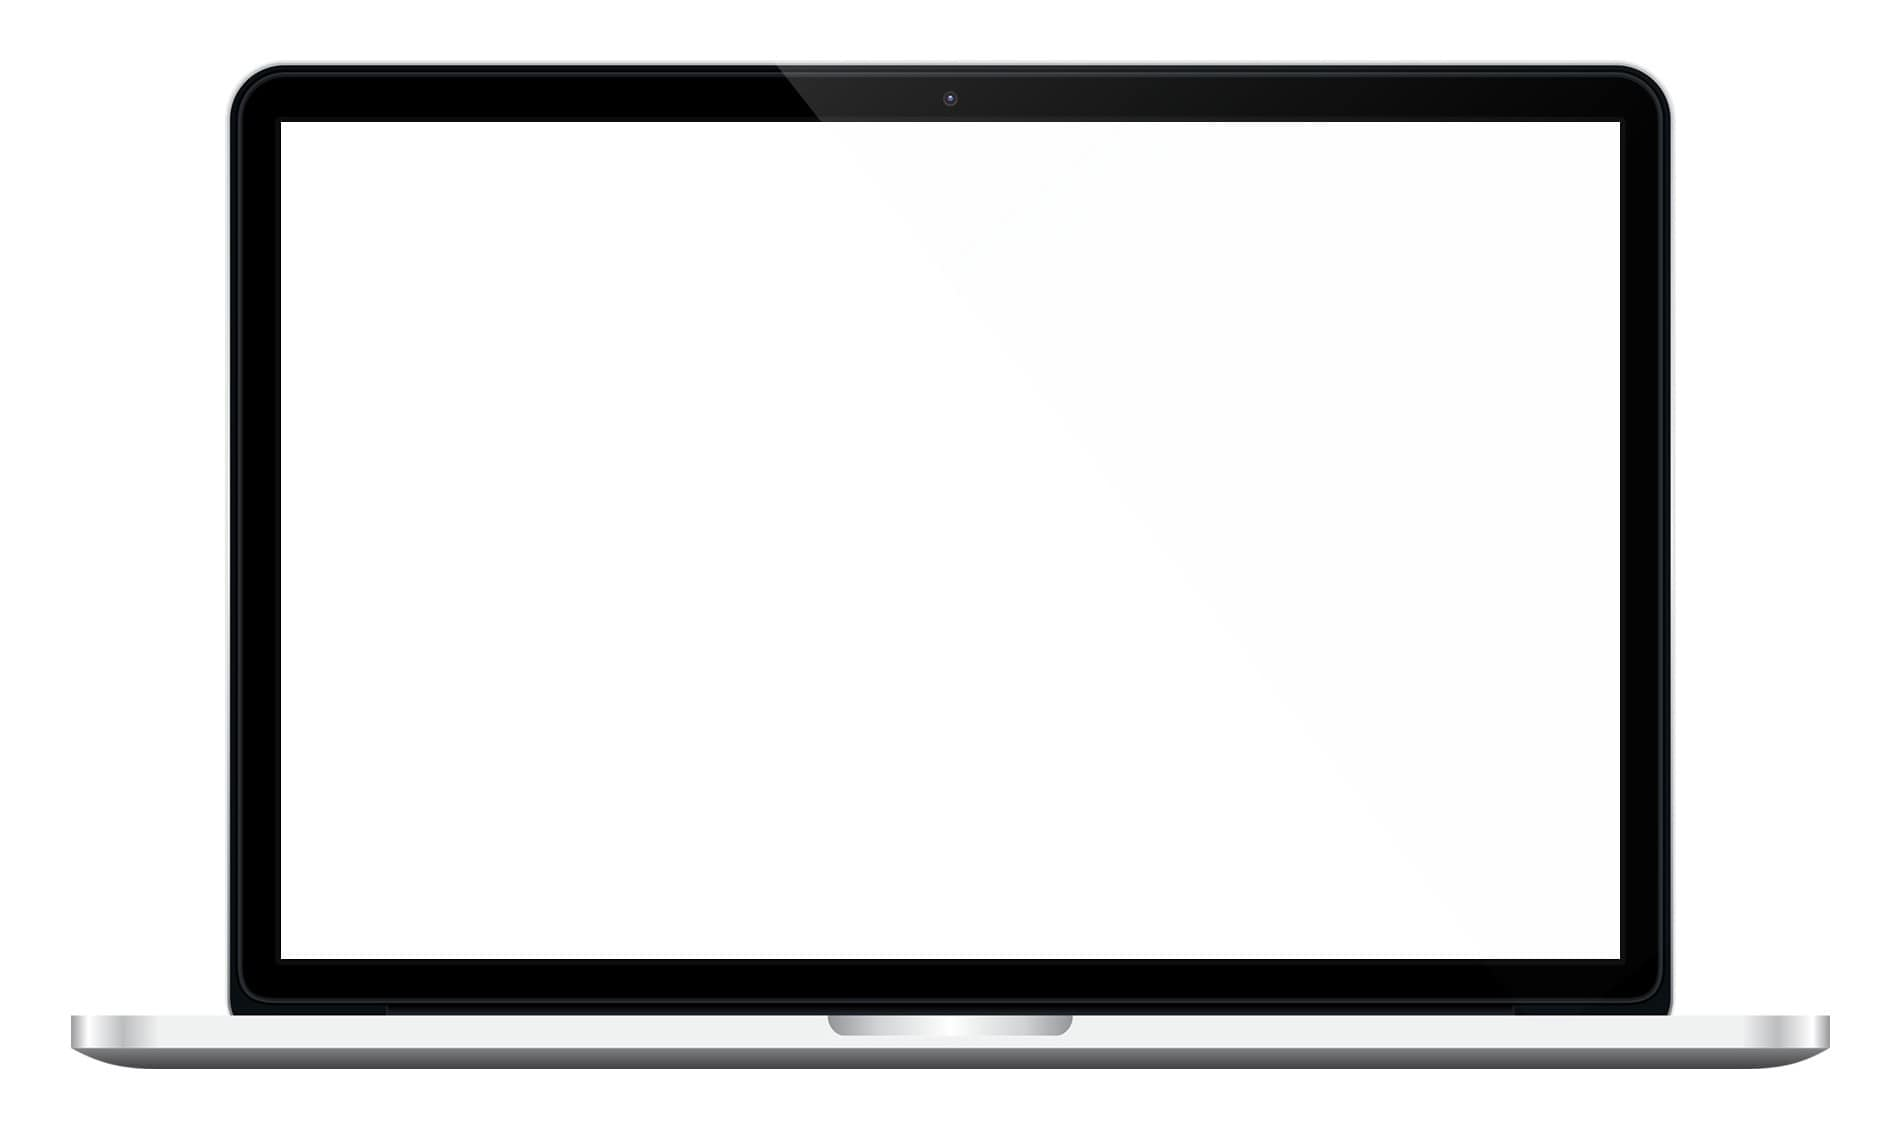
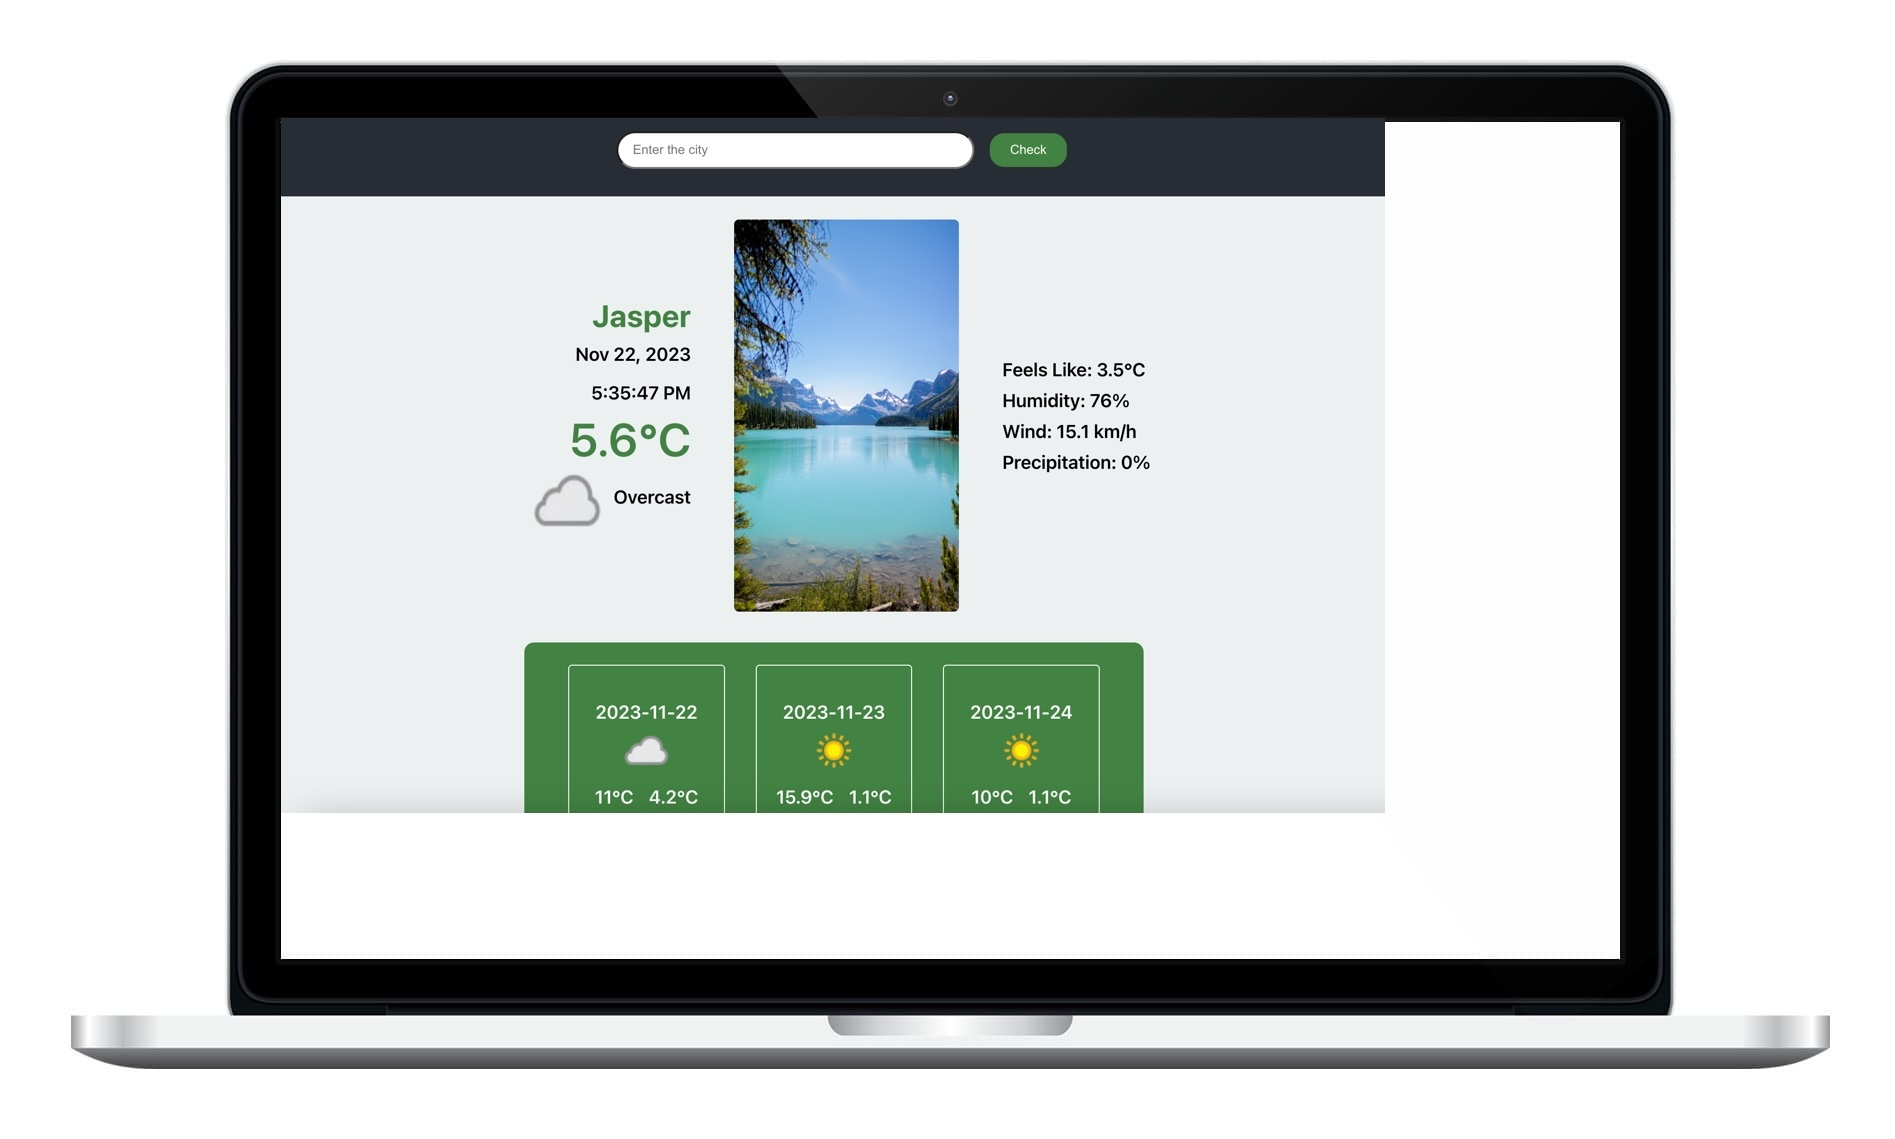
added new project - weather forecaster

Changed region(s): [[0.1245, 0.0922, 0.7472, 0.7375]]

diff --git a/src/components/ProjectDetails/WeatherForecaster/ProjectDetailsWeatherForecaster.jsx b/src/components/ProjectDetails/WeatherForecaster/ProjectDetailsWeatherForecaster.jsx
@@ -1,0 +1,58 @@
+import "./ProjectDetailsWeatherForecaster.scss";
+// import ProjectScreenTravelSite from "../../../assets/images/project-screen-travelsite.jpeg";
+import ProjectScreenWeatherForecaster from "../../../assets/images/project-screen-weather-forecaster.jpeg";
+
+function ProjectDetailsWeatherForecaster() {
+    return (
+        <>
+            <section class="project-details">
+                <div class="main-container">
+                    <div class="project-details__content">
+                        <div class="project-details__showcase-img-cont">
+                            <img
+                                src={ProjectScreenWeatherForecaster}
+                                alt="Project Screen"
+                                class="project-details__showcase-img"
+                            />
+                        </div>
+                        <div class="project-details__content-main">
+                            <div class="project-details__desc">
+                                <h3 class="project-details__content-title">Project Overview</h3>
+                                <p class="project-details__desc-para">
+                                This app offers a quick and accurate way to check global weather conditions, helping you stay prepared for unexpected changes. Imagine the convenience of making your mornings hassle-free by effortlessly checking the weather forecast, giving you the time to plan your outfit and activities with confidence. You'll never be caught off guard by unpredictable weather patterns again; this app provides reliable information, making you feel like you have your own personal meteorologist guiding your choices.
+                                </p>
+                            </div>
+                            <div class="project-details__tools-used">
+                                <h3 class="project-details__content-title">Tools Used</h3>
+                                <div class="skills">
+                                    <div class="skills__skill">HTML</div>
+                                    <div class="skills__skill">SASS</div>
+                                    <div class="skills__skill">React</div>
+                                    <div class="skills__skill">GIT</div>
+                                </div>
+                            </div>
+                            <div class="project-details__links">
+                                <h3 class="project-details__content-title">See Live</h3>
+                                <a
+                                    href="https://supreet-kaur-weather-forecaster.netlify.app/"
+                                    class="btn btn--med btn--theme project-details__links-btn"
+                                    target="_blank" rel="noreferrer"
+                                >Live Link</a
+                                >
+                                <a
+                                    href="https://github.com/isupreetk/weather-forecaster.git"
+                                    class="btn btn--med btn--theme-inv project-details__links-btn"
+                                    target="_blank" rel="noreferrer"
+                                >Code Link</a
+                                >
+                            </div>
+                        </div>
+                    </div>
+                </div>
+            </section>
+
+        </>
+    );
+}
+
+export default ProjectDetailsWeatherForecaster;

diff --git a/src/components/ProjectDetails/WeatherForecaster/ProjectDetailsWeatherForecaster.scss b/src/components/ProjectDetails/WeatherForecaster/ProjectDetailsWeatherForecaster.scss
@@ -1,0 +1,90 @@
+.project-details__content {
+    padding: 8rem 0;
+    max-width: 90rem;
+    margin: auto;
+}
+
+.project-details__content-title {
+    font-weight: 700;
+    font-size: 2.8rem;
+    margin-bottom: 3rem;
+}
+
+@media only screen and (max-width: 37.5em) {
+    .project-details__content-title {
+        font-size: 2.4rem;
+    }
+}
+
+.project-details__showcase-img-cont {
+    width: 100%;
+    margin-bottom: 6rem;
+}
+
+.project-details__showcase-img {
+    width: 100%;
+}
+
+.project-details__content-main {
+    width: 100%;
+    max-width: 70rem;
+    margin: auto;
+}
+
+.project-details__desc {
+    margin: 0 0 7rem 0;
+}
+
+.project-details__desc-para {
+    font-size: 1.8rem;
+    line-height: 1.7;
+    color: grey;
+    margin-bottom: 2rem;
+}
+
+.project-details__tools-used {
+    margin: 0 0 7rem 0;
+}
+
+.project-details__tools-used-list {
+    display: flex;
+    flex-wrap: wrap;
+}
+
+.project-details__tools-used-item {
+    padding: 1rem 2rem;
+    margin-bottom: 1.5rem;
+    margin-right: 1.5rem;
+    font-size: 1.6rem;
+    background: rgba(153, 153, 153, 0.2);
+    border-radius: 5px;
+    font-weight: 600;
+    color: #777;
+}
+
+.project-details__links {
+    margin: 0 0;
+}
+
+.project-details__links-btn {
+    margin-right: 2rem;
+}
+
+@media only screen and (max-width: 37.5em) {
+    .project-details__links-btn {
+        margin-right: 0;
+        width: 70%;
+        margin-bottom: 2rem;
+        text-align: center;
+    }
+}
+
+.project-details__links-btn:last-child {
+    margin: 0;
+}
+
+@media only screen and (max-width: 37.5em) {
+    .project-details__links-btn:last-child {
+        margin: 0;
+    }
+}

diff --git a/src/components/Projects/Projects.jsx b/src/components/Projects/Projects.jsx
@@ -6,6 +6,7 @@ import ProjectScreenBandSite from "../../assets/images/project-screen-bandsite.j
 import ProjectScreenTravelSite from "../../assets/images/project-screen-travelsite.jpeg";
 import ProjectScreenCoffeeShop from "../../assets/images/project-screen-coffeeshop.jpeg";
 import ProjectScreenCrisisConnect from "../../assets/images/project-screen-crisis-connect.jpeg";
+import ProjectScreenWeatherForecaster from "../../assets/images/project-screen-weather-forecaster.jpeg";
 
 function Projects() {
   return (
@@ -130,6 +131,28 @@ function Projects() {
                 </p>
                 <a
                   href="./project/3"
+                  class="btn btn--med btn--theme dynamicBgClr"
+                >Case Study</a
+                >
+              </div>
+            </div>
+
+            <div class="projects__row">
+              <div class="projects__row-img-cont">
+                <img
+                  src={ProjectScreenWeatherForecaster}
+                  alt="Software Screenshot"
+                  class="projects__row-img"
+                  loading="lazy"
+                />
+              </div>
+              <div class="projects__row-content">
+                <h3 class="projects__row-content-title">Weather Forecaster</h3>
+                <p class="projects__row-content-desc">
+                  A weather forecaster application for getting real-time weather information.
+                </p>
+                <a
+                  href="./project/10"
                   class="btn btn--med btn--theme dynamicBgClr"
                 >Case Study</a
                 >

diff --git a/src/App.jsx b/src/App.jsx
@@ -11,6 +11,7 @@ import ProjectPageBandSite from "./pages/ProjectPage/BandSite/ProjectPageBandSit
 import ProjectPageTravelSite from './pages/ProjectPage/TravelSite/ProjectPageTravelSite';
 import ProjectPageCoffeeShop from './pages/ProjectPage/CoffeeShop/ProjectPageCoffeeShop';
 import ProjectPageCrisisConnect from './pages/ProjectPage/CrisisConnect/ProjectPageCrisisConnect';
+import ProjectPageWeatherForecaster from './pages/ProjectPage/WeatherForecaster/ProjectPageWeatherForecaster';
 import Footer from './components/Footer/Footer';
 
 function App() {
@@ -29,6 +30,7 @@ function App() {
         <Route path="/project/7" element={<ProjectPageTravelSite />} />
         <Route path="/project/8" element={<ProjectPageCoffeeShop />} />
         <Route path="/project/9" element={<ProjectPageCrisisConnect />} />
+        <Route path="/project/10" element={<ProjectPageWeatherForecaster />} />
 
       </Routes>
 

diff --git a/src/components/ProjectHero/WeatherForecaster/ProjectHeroWeatherForecaster.scss b/src/components/ProjectHero/WeatherForecaster/ProjectHeroWeatherForecaster.scss
@@ -1,0 +1,40 @@
+.project-cs-hero {
+    color: #fff;
+    background: linear-gradient(to right, rgba(47, 51, 55, 0.8), rgba(47, 51, 55, 0.8)), url("../../../assets/icons/common-bg.svg");
+    background-size: cover;
+    background-position: center;
+    position: relative;
+}
+
+@media only screen and (max-width: 37.5em) {
+    .project-cs-hero {
+        height: unset;
+        min-height: unset;
+    }
+}
+
+.project-cs-hero__content {
+    padding: 25rem 0 17rem 0;
+    max-width: 90rem;
+    width: 92%;
+    margin: auto;
+}
+
+@media only screen and (max-width: 37.5em) {
+    .project-cs-hero__content {
+        padding: 19rem 0 13rem 0;
+        margin: auto;
+        position: static;
+        transform: translate(0, 0);
+    }
+}
+
+.project-cs-hero__info {
+    margin: 3rem auto 0 auto;
+    max-width: 80rem;
+}
+
+.project-cs-hero__cta {
+    margin-top: 5rem;
+    text-align: center;
+}

diff --git a/src/components/ProjectHero/WeatherForecaster/ProjectHeroWeatherForecaster.jsx b/src/components/ProjectHero/WeatherForecaster/ProjectHeroWeatherForecaster.jsx
@@ -1,0 +1,23 @@
+import "./ProjectHeroWeatherForecaster.scss";
+
+function ProjectHeroWeatherForecaster() {
+  return (
+    <>
+      <section class="project-cs-hero">
+        <div class="project-cs-hero__content">
+          <h1 class="heading-primary">Weather Forecaster</h1>
+          <div class="project-cs-hero__info">
+            <p class="text-primary">
+              This is a web application for getting real-time weather information.
+            </p>
+          </div>
+          <div class="project-cs-hero__cta">
+            <a href="https://supreet-kaur-weather-forecaster.netlify.app/" class="btn btn--bg" target="_blank" rel="noreferrer">Live Link</a>
+          </div>
+        </div>
+      </section>
+    </>
+  )
+}
+
+export default ProjectHeroWeatherForecaster;

diff --git a/src/pages/ProjectPage/WeatherForecaster/ProjectPageWeatherForecaster.jsx b/src/pages/ProjectPage/WeatherForecaster/ProjectPageWeatherForecaster.jsx
@@ -1,0 +1,14 @@
+import ProjectHeroWeatherForecaster from "../../../components/ProjectHero/WeatherForecaster/ProjectHeroWeatherForecaster";
+import ProjectDetailsWeatherForecaster from "../../../components/ProjectDetails/WeatherForecaster/ProjectDetailsWeatherForecaster";
+
+
+function ProjectPageWeatherForecaster() {
+    return (
+        <>
+            <ProjectHeroWeatherForecaster />
+            <ProjectDetailsWeatherForecaster />
+        </>
+    )
+}
+
+export default ProjectPageWeatherForecaster;
